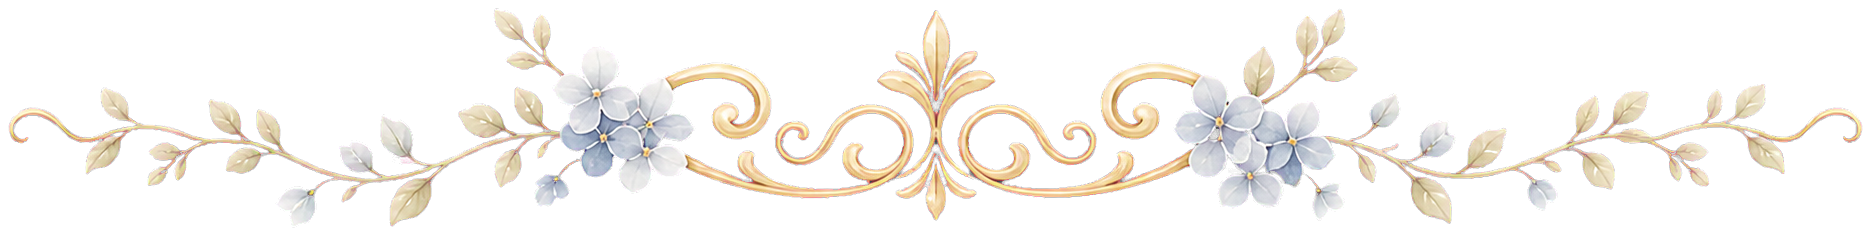
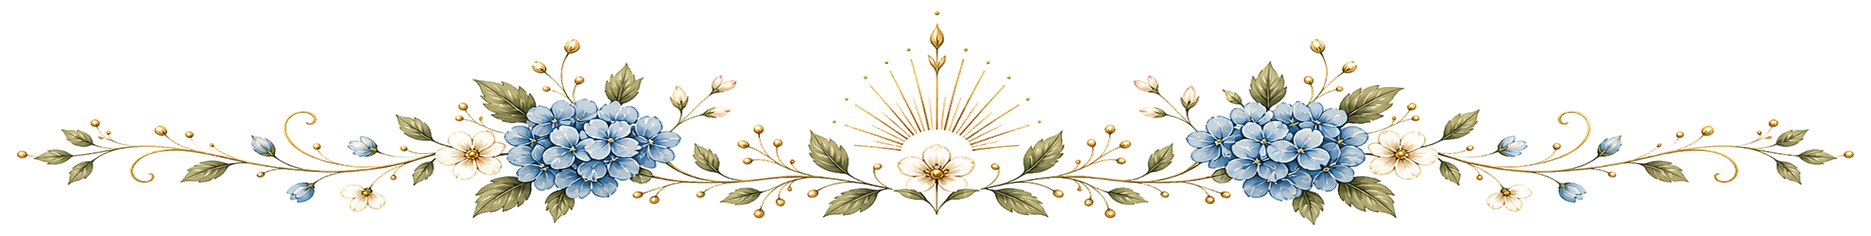
Update styling and animation for cover transition and ayat-divider

Changed region(s): [[0.0, 0.0297, 1.0, 0.9492]]

diff --git a/app/globals.css b/app/globals.css
@@ -367,6 +367,7 @@ button {
   position: relative;
   z-index: 2;
   display: none;
+  visibility: hidden;
   width: 100%;
   min-height: 100vh;
   min-height: 100dvh;
@@ -374,13 +375,16 @@ button {
   opacity: 0;
   pointer-events: none;
   transform: translateY(24px);
-  transition: opacity .8s .55s ease, transform 1s .45s ease;
+  transition:
+    opacity 1.05s .4s ease,
+    transform 1.1s .4s cubic-bezier(.2, .72, .22, 1),
+    visibility 0s .4s;
 }
 
 .ayat-section {
   position: relative;
-  min-height: 950px;
-  padding: 62px 22px clamp(36px, 10vw, 60px);
+  min-height: clamp(820px, 218vw, 900px);
+  padding: 62px 22px clamp(26px, 8vw, 44px);
   overflow: hidden;
   text-align: center;
 }
@@ -448,7 +452,7 @@ button {
   width: min(82vw, 410px);
   min-height: 0;
   margin: clamp(-32px, -5.5vw, -18px) auto 0;
-  padding: 50px 0 20px;
+  padding: clamp(24px, 7vw, 30px) 0 20px;
   align-items: center;
   flex-direction: column;
   justify-content: center;
@@ -468,7 +472,7 @@ button {
   margin: 0;
   color: #657581;
   font-family: "Roboto", Arial, sans-serif;
-  font-size: 15px;
+  font-size: clamp(14px, 3.85vw, 15px);
   font-style: normal;
   font-weight: 300;
   line-height: 1.5;
@@ -476,8 +480,10 @@ button {
 }
 
 .quote-panel p {
+  position: relative;
+  top: clamp(-14px, -3vw, -10px);
   width: 82%;
-  margin: 30px 0 8px;
+  margin: clamp(22px, 6vw, 26px) 0 8px;
   color: var(--gold-dark);
   font-family: "Roboto", Arial, sans-serif;
   font-size: 13px;
@@ -493,7 +499,7 @@ button {
   display: flex;
   width: min(82vw, 410px);
   height: clamp(58px, 16vw, 72px);
-  margin: -1px auto 0;
+  margin: clamp(-28px, -6.2vw, -22px) auto 0;
   align-items: flex-end;
   justify-content: center;
   overflow: hidden;
@@ -557,10 +563,20 @@ button {
   transition-delay: 1.02s;
 }
 
+.ayat-cinematic-divider {
+  opacity: 0;
+  transform: translate3d(0, 8px, 0);
+  transition:
+    opacity .9s 1.08s ease,
+    transform 1s 1.02s cubic-bezier(.16, .76, .22, 1);
+  will-change: opacity, transform;
+}
+
 .ayat-section.is-cinematic-visible .ayat-cinematic-photo,
 .ayat-section.is-cinematic-visible .ayat-cinematic-quote,
 .ayat-section.is-cinematic-visible .ayat-cinematic-quote blockquote,
-.ayat-section.is-cinematic-visible .ayat-cinematic-quote p {
+.ayat-section.is-cinematic-visible .ayat-cinematic-quote p,
+.ayat-section.is-cinematic-visible .ayat-cinematic-divider {
   opacity: 1;
   transform: translate3d(0, 0, 0) scale(1);
   will-change: auto;
@@ -584,7 +600,7 @@ button {
   width: 100%;
   max-width: none;
   height: auto;
-  margin: 18px 0 -56px;
+  margin: clamp(-12px, -2vw, -8px) 0 -56px;
 }
 
 .profile-surface {
@@ -592,7 +608,7 @@ button {
   z-index: 1;
   width: 100%;
   margin: 0;
-  padding: 62px 25px 92px;
+  padding: clamp(42px, 11vw, 56px) 25px 92px;
   overflow: hidden;
   background:
     linear-gradient(
@@ -2450,16 +2466,16 @@ button {
 }
 
 .invitation.is-open .cover-content {
-  animation: cover-open .85s cubic-bezier(.55, 0, .3, 1) forwards;
+  animation: cover-open 1.15s linear forwards;
   pointer-events: none;
   visibility: hidden;
-  transition: visibility 0s .85s;
+  transition: visibility 0s 1.15s;
 }
 
 .invitation.is-open .background {
   animation: none;
   opacity: 0;
-  transform: scale(1.08);
+  transform: scale(1.05);
 }
 
 .invitation.is-open .light-wash {
@@ -2494,6 +2510,14 @@ body.invitation-open > .inner-fixed-background {
   opacity: 1;
   pointer-events: auto;
   transform: translateY(0);
+  visibility: visible;
+}
+
+@starting-style {
+  .invitation.is-open .inner-page {
+    opacity: 0;
+    transform: translateY(24px);
+  }
 }
 
 html.invitation-open {
@@ -2561,7 +2585,9 @@ body.invitation-open .invitation {
 }
 
 @keyframes cover-open {
-  to { opacity: 0; transform: translateY(-26px) scale(.98); }
+  0% { opacity: 1; transform: none; }
+  62% { opacity: .58; transform: translateY(-10px) scale(.994); }
+  100% { opacity: 0; transform: translateY(-26px) scale(.98); }
 }
 
 @keyframes gallery-lightbox-arrival {

diff --git a/app/invitation.jsx b/app/invitation.jsx
@@ -555,7 +555,7 @@ export default function Invitation() {
     window.setTimeout(() => {
       window.scrollTo({ top: 0, behavior: "auto" });
       window.dispatchEvent(new CustomEvent("invitation:opened"));
-    }, 850);
+    }, 1100);
   };
 
   const copyGiftNumber = async (number) => {
@@ -754,7 +754,7 @@ export default function Invitation() {
               <p>QS. Ar-Rum: 21</p>
             </div>
 
-            <div className="ayat-divider-panel section-reveal" aria-hidden="true">
+            <div className="ayat-divider-panel ayat-cinematic-divider" aria-hidden="true">
               <img
                 className="ayat-divider"
                 src="/assets/section-assets/ayat-divider.png"
